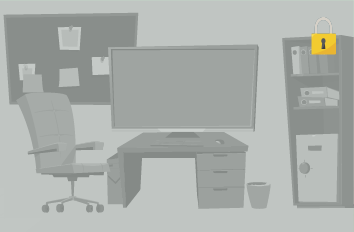
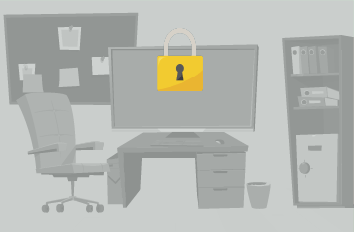
candando

Changed region(s): [[0.435, 0.181, 0.5904, 0.3922], [0.8701, 0.1207, 0.9633, 0.2414]]

diff --git a/src/views/screens/Home/Home.jsx b/src/views/screens/Home/Home.jsx
@@ -252,7 +252,7 @@ Home.CreatorZone = () => {
           <StyledTitle className="trata">Creador de experiencias</StyledTitle>
         </div>
       </div>
-      <div className="absolute w-[5%] left-[92%] top-[8%]">
+      <div className="absolute w-[8%] left-[47%] top-[9%]">
           <img src="/images/home/candado.png" alt="candado" />
         </div>
         

diff --git a/src/views/screens/habitacion1/habitacion1.styles.js b/src/views/screens/habitacion1/habitacion1.styles.js
@@ -75,7 +75,7 @@ export const StyledItem = styled.div`
 `;
 
 export const StyledItemSilla = styled.div`
-  ${tw`absolute w-[11.7%] left-[13.3%] top-[87.2%] h-[6%] cursor-pointer`}
+  ${tw`absolute w-[11.7%] left-[10.3%] top-[85.2%] h-[6%] cursor-pointer`}
   /* animation: ${fadeInOut} 15s ease-in-out infinite;   */
 
   @media (max-width: 1024px) {
